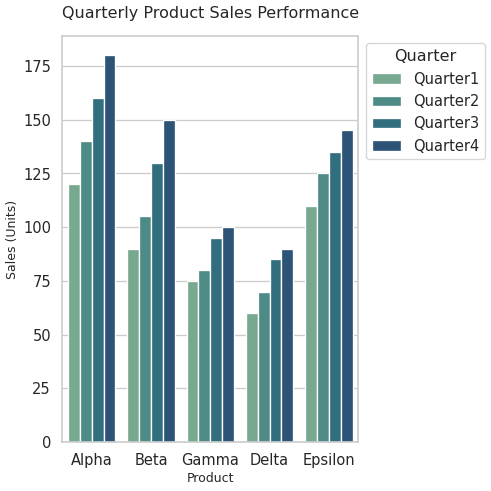
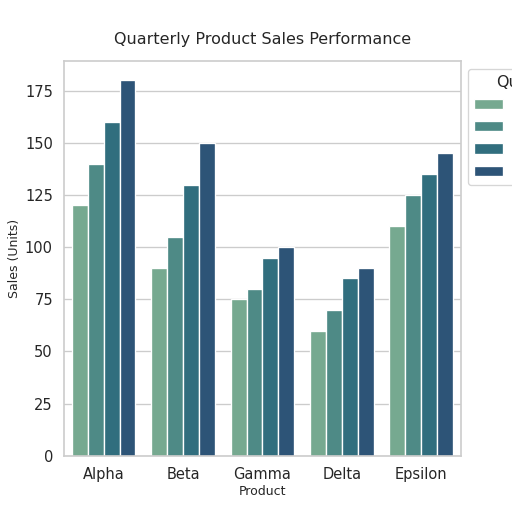
asdf

diff --git a/chart.py b/chart.py
@@ -33,14 +33,15 @@ palette = sns.color_palette("crest", n_colors=len(df_long["Quarter"].unique()))
 # ------------------------
 # Create barplot
 # ------------------------
-plt.figure(figsize=(8, 8))   # 512x512 at dpi=64
+fig, ax = plt.subplots(figsize=(8, 8), dpi=64)  # 8in * 64dpi = 512px
 
-ax = sns.barplot(
+sns.barplot(
     data=df_long,
     x="Product",
     y="Sales",
     hue="Quarter",
-    palette=palette
+    palette=palette,
+    ax=ax
 )
 
 # Titles and labels
@@ -52,7 +53,6 @@ ax.set_ylabel("Sales (Units)", fontsize=14)
 ax.legend(title="Quarter", loc="upper left", bbox_to_anchor=(1, 1))
 
 # ------------------------
-# Save chart
+# Save chart (exact 512x512)
 # ------------------------
-plt.tight_layout()
-plt.savefig("chart.png", dpi=64, bbox_inches="tight")  # 8in*64dpi = 512px
+fig.savefig("chart.png", dpi=64)  # No bbox_inches, so exact size is preserved
